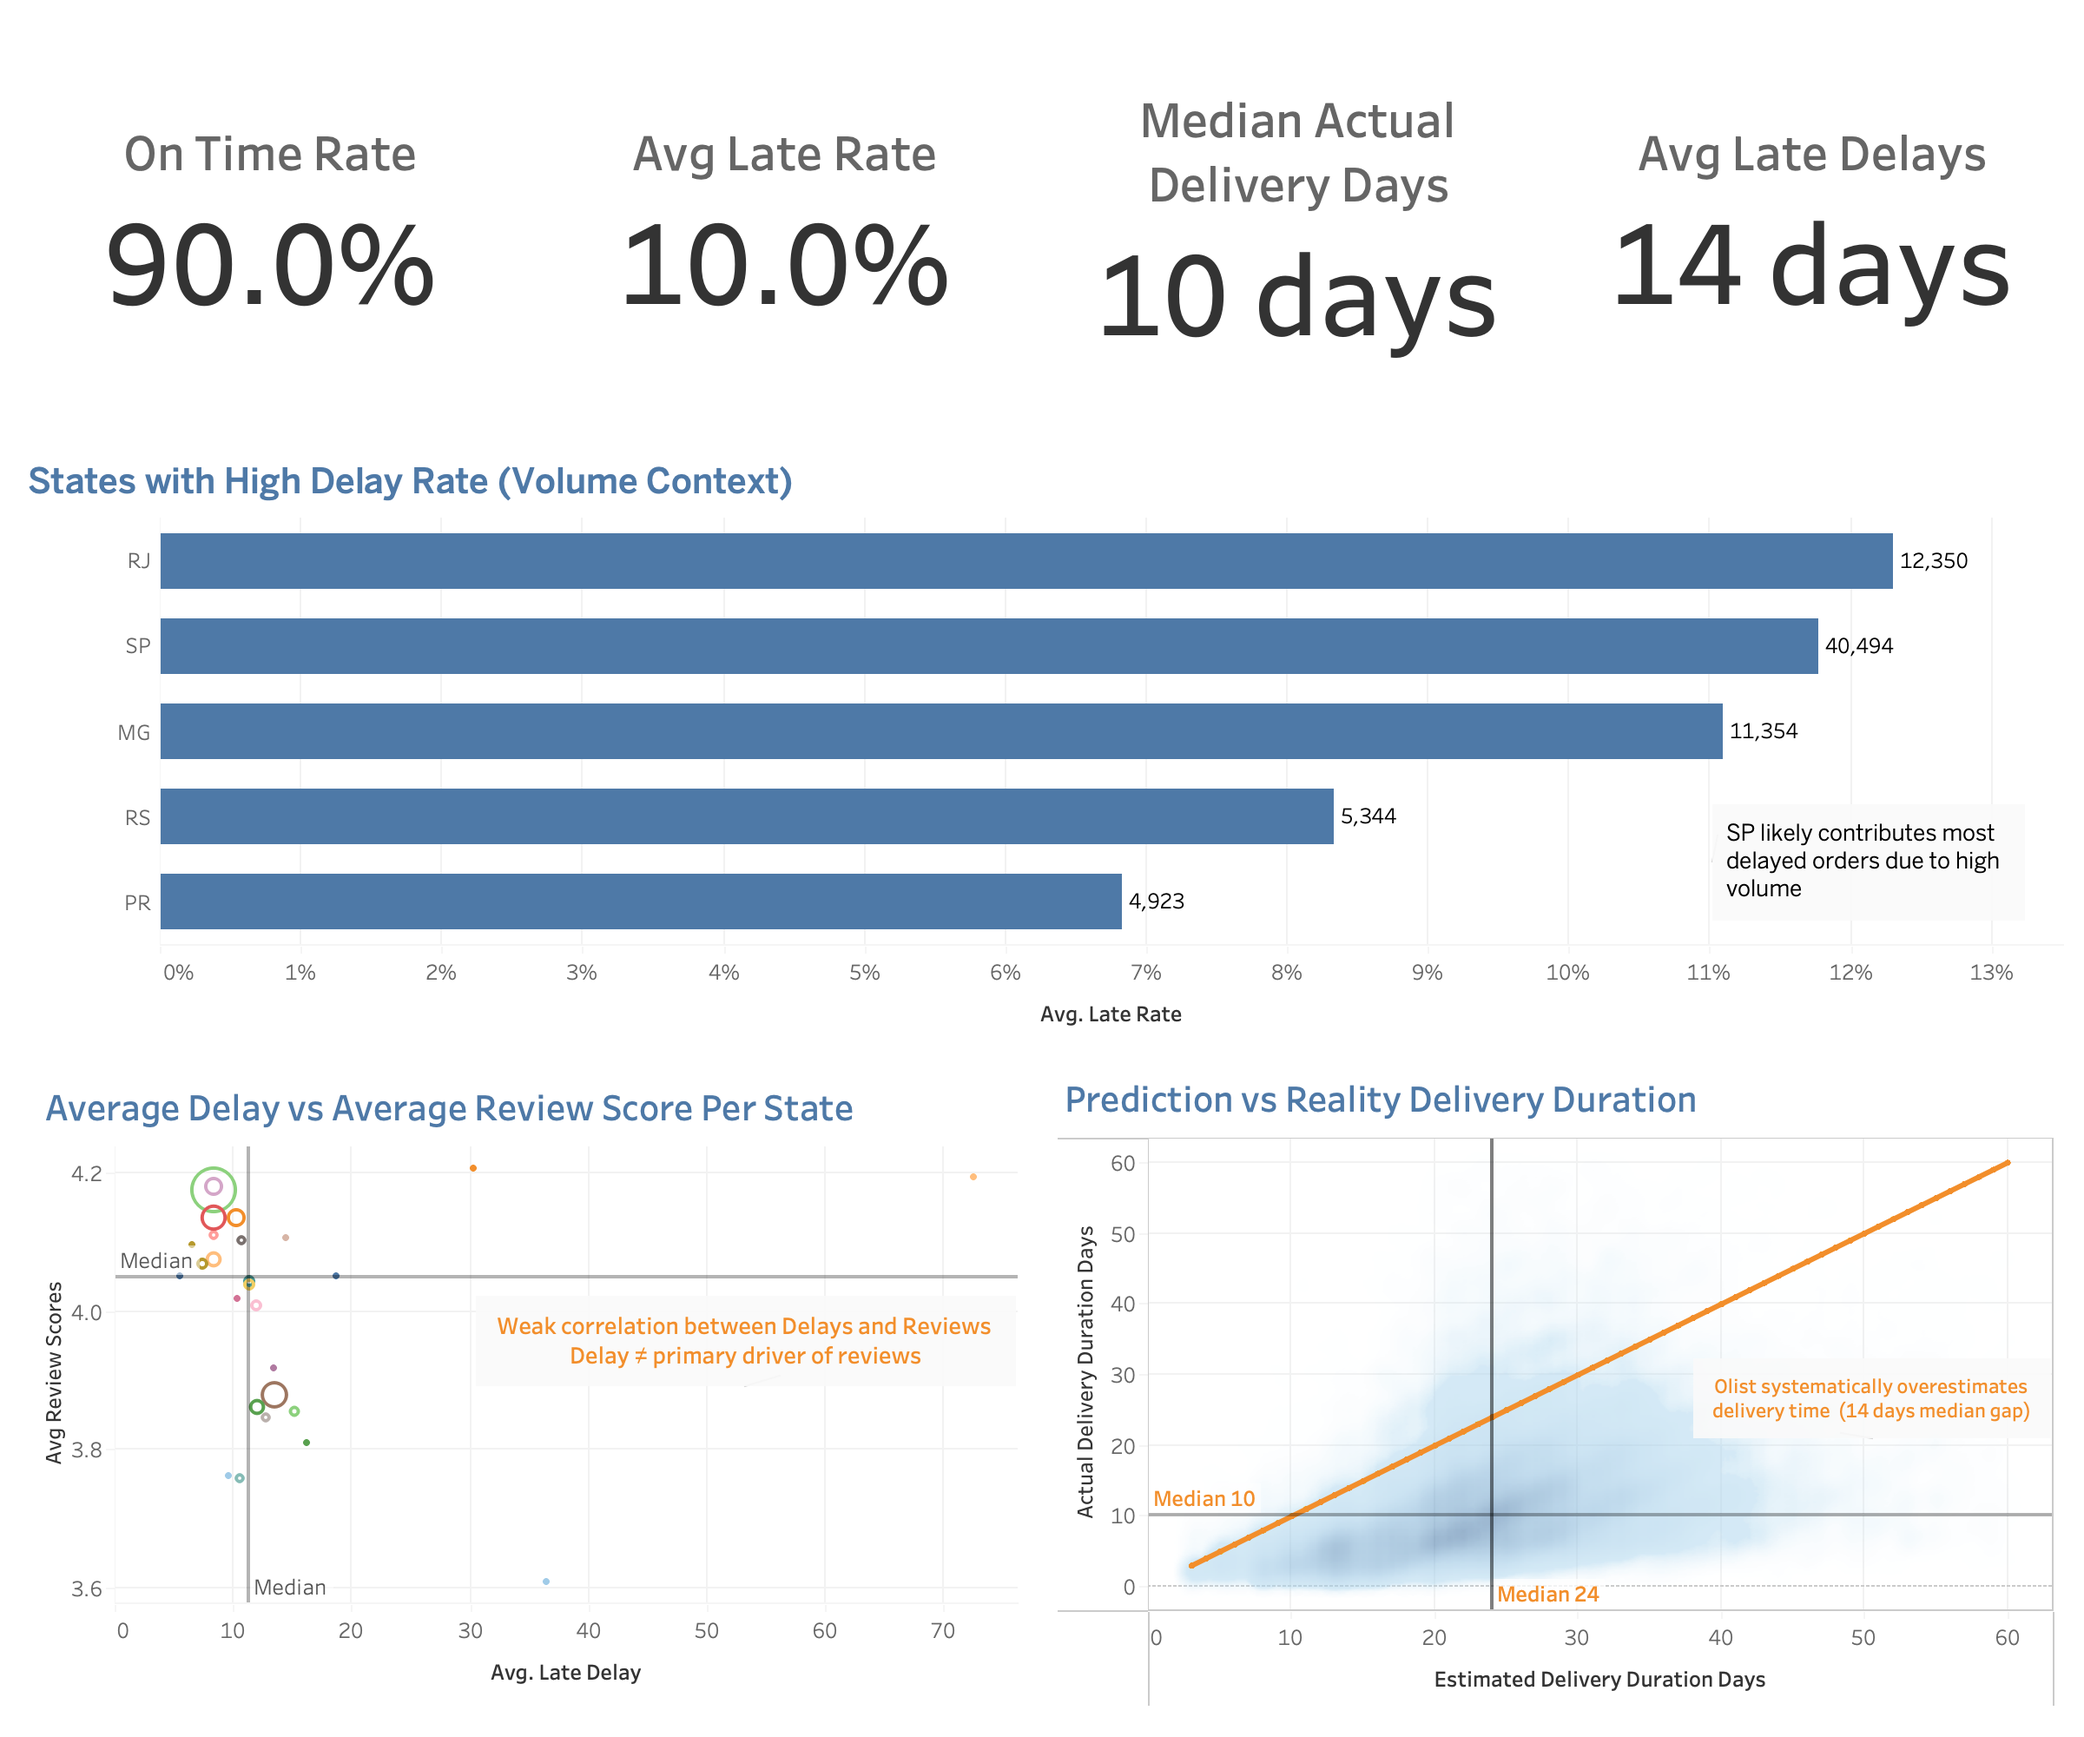
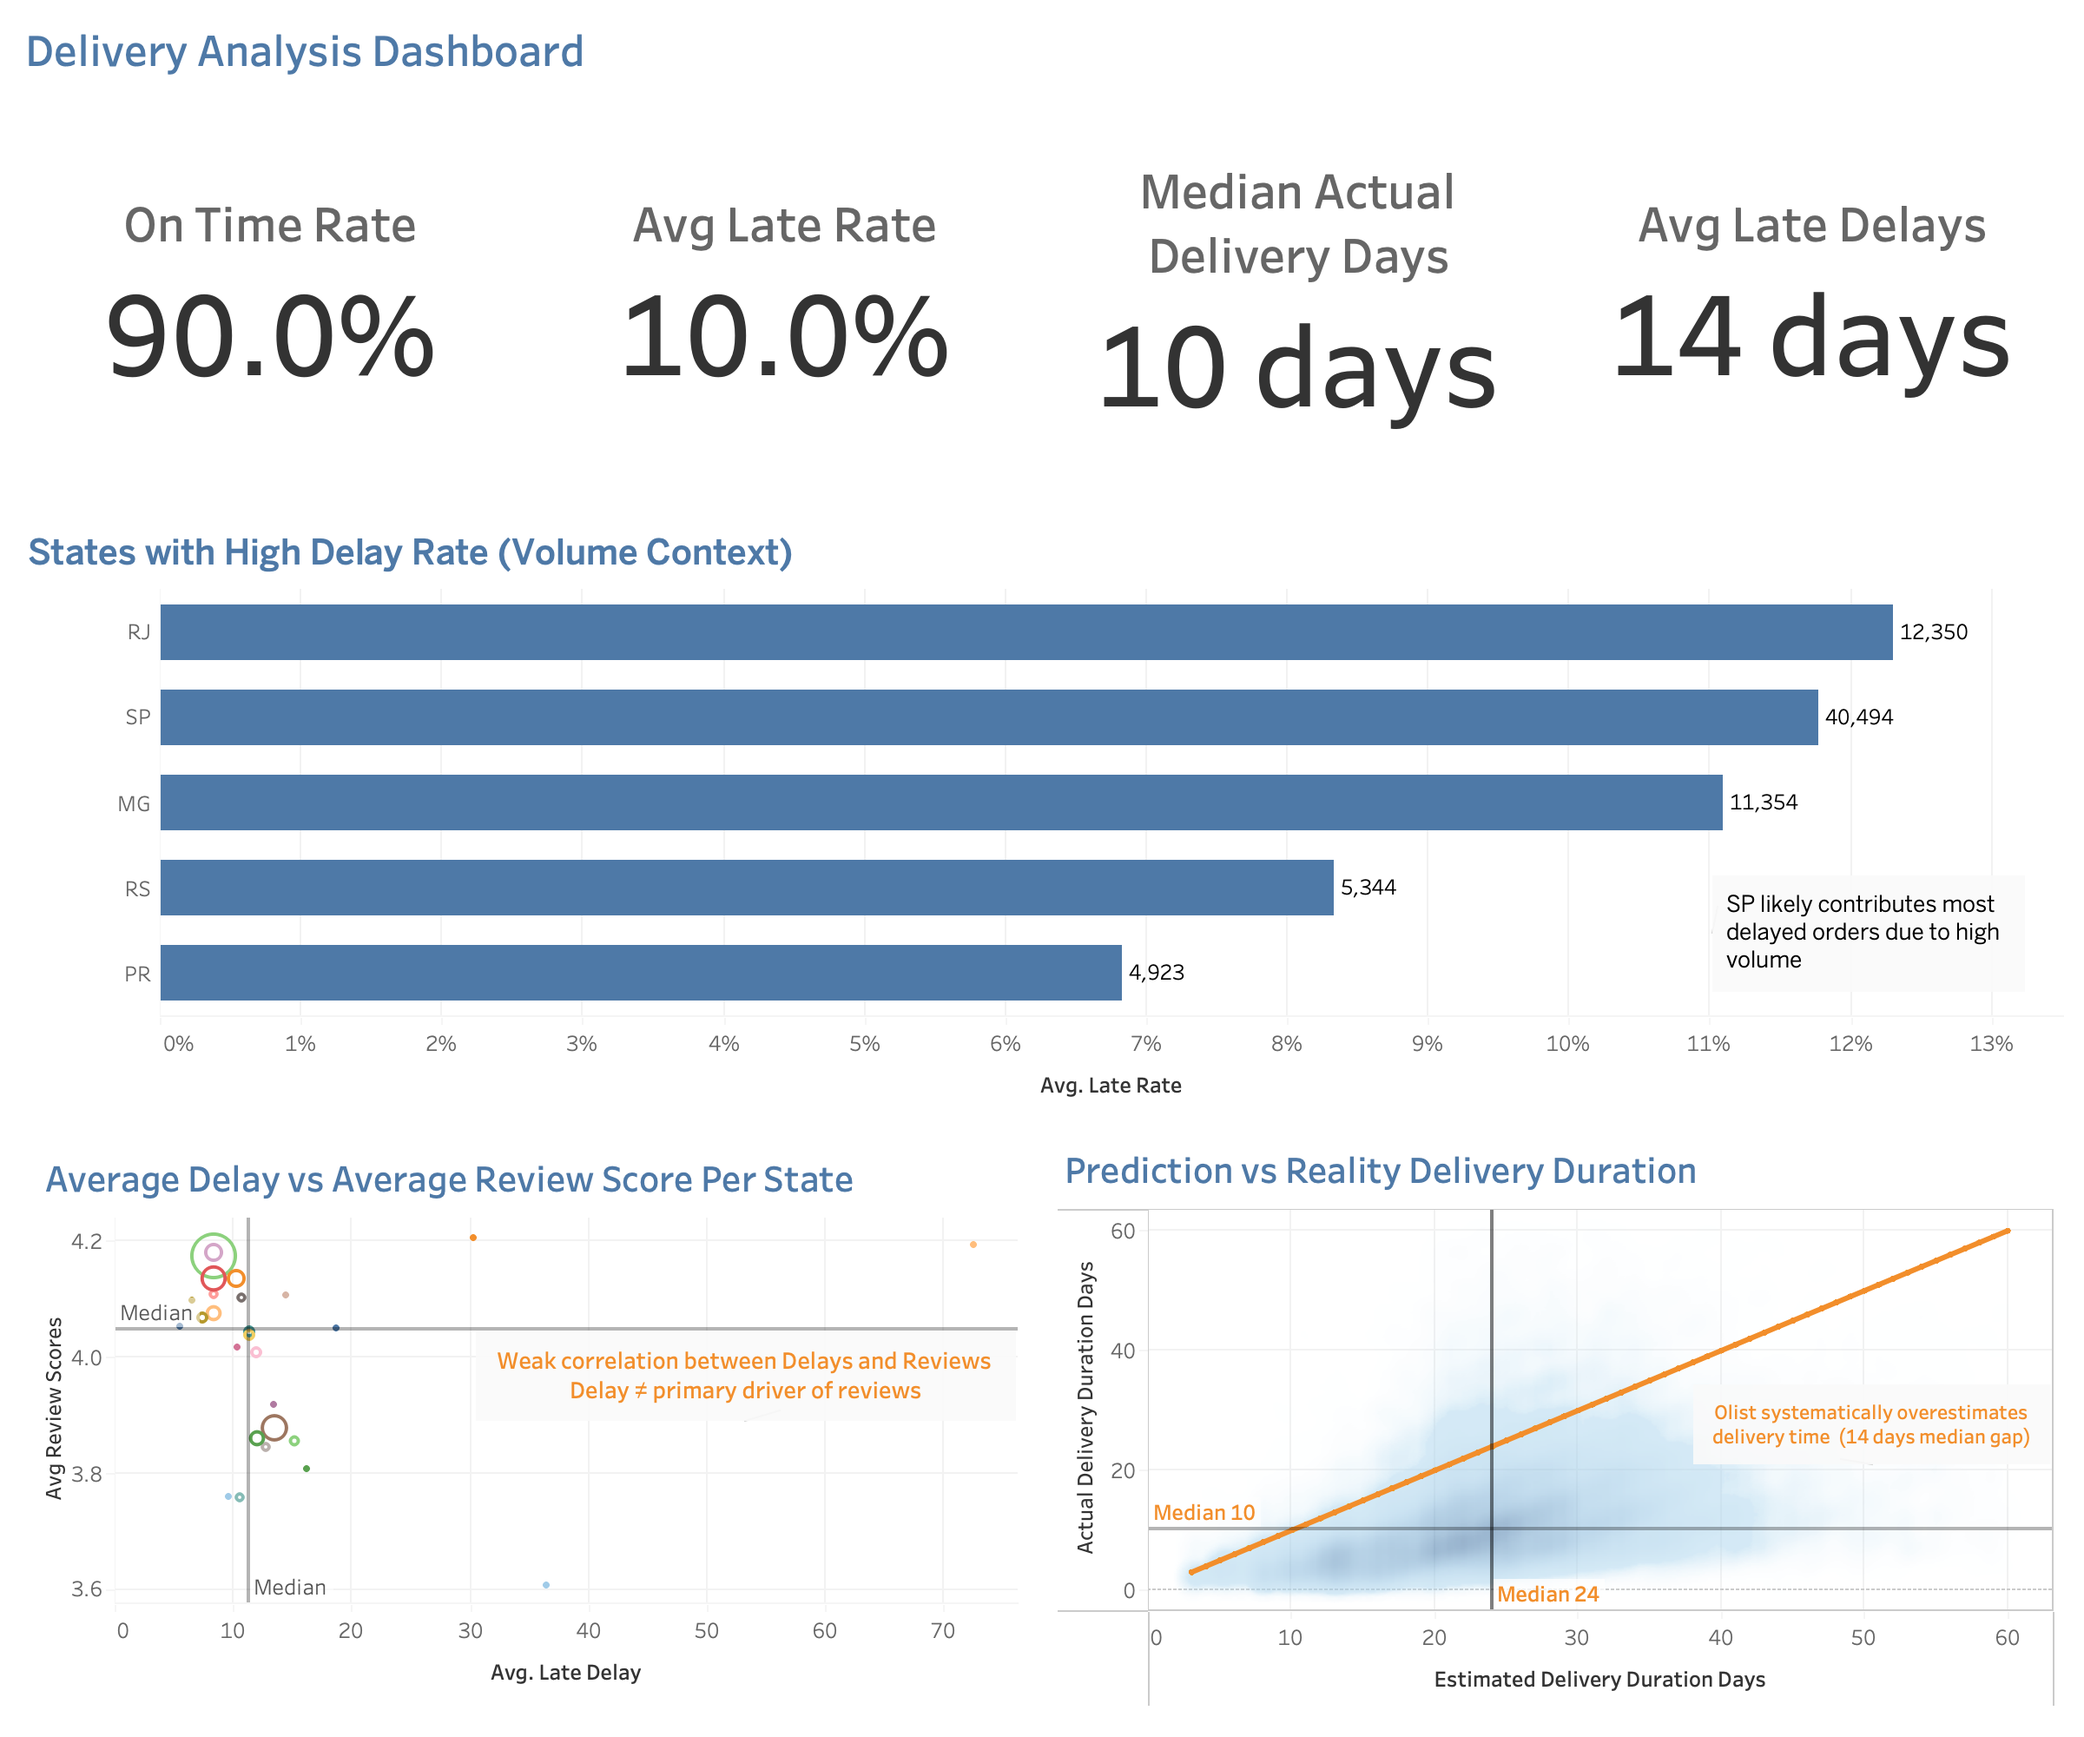
feat(dashboards): add customer-retention dashboard and update readme (#37)

diff --git a/README.md b/README.md
@@ -10,13 +10,13 @@ The goal of this project is to replicate how analytics pipelines are built in pr
 ## Architecture (High Level)
 Raw CSV Files
      
-Python Ingestion Scripts ->
+Python Ingestion Scripts 
      
-PostgreSQL (raw schema) ->
+PostgreSQL (raw schema) 
      
-dbt Transformations (staging -> marts) ->
+dbt Transformations (staging -> marts) 
      
-Analytics Tables (facts & dimensions) ->
+Analytics Tables (facts & dimensions) 
      
 Tableau Dashboards
 
@@ -83,46 +83,17 @@ Start the database:
 docker compose up -d
 ```
 
-## SQL Linting And Formatting
-
-This repo uses `sqlfluff` for dbt-aware SQL linting and formatting.
-
-What it enforces:
-- PostgreSQL dialect rules
-- dbt templating support for models in `dbt/olist_dbt`
-- Uppercase SQL keywords, functions, literals, and types
-
-Install dependencies:
-
-```bash
-pip install -r requirements.txt
-```
-
-Lint dbt SQL models:
-
-```bash
-sqlfluff lint dbt/olist_dbt/models --config .sqlfluff
-```
-
-Auto-fix fixable issues:
-
-```bash
-sqlfluff fix dbt/olist_dbt/models --config .sqlfluff
-```
-
-Enable enforcement before each commit:
-
-```bash
-pre-commit install
-pre-commit run --all-files
-```
 ## Dashboards Screenshots
-Executive Dashboard: ![Executive Dashboard](dashboards/executive-dashboard.png)
-Delivery Analysis Dashboard: ![Delivery Dashboard](dashboards/delivery-dashboard.png)
+- **Executive Dashboard:** ![Executive Dashboard](dashboards/executive-dashboard.png)
+- **Delivery Analysis Dashboard:** ![Delivery Dashboard](dashboards/delivery-dashboard.png)
+- **Customer Retention Analysis Dashboard:** ![Customer Analysis Dashboard](dashboards/customer_retention_dashboard.png)
 
-## Live Dashboard
-Executive Dashboard: [Executive Dashboard](https://public.tableau.com/app/profile/gideon.kipkorir/viz/Olist_executive_dashbaord/executive-dashboard)
-Delivery Analysis Dashboard:  [Delivery Analysis](https://public.tableau.com/app/profile/gideon.kipkorir/viz/Olist_delivery_analysis/delivery-dashboard)
+## Live Dashboards
+- **Executive Dashboard:** [Executive Dashboard](https://public.tableau.com/app/profile/gideon.kipkorir/viz/Olist_executive_dashbaord/executive-dashboard)
+
+- **Delivery Analysis Dashboard:**  [Delivery Analysis](https://public.tableau.com/app/profile/gideon.kipkorir/viz/Olist_delivery_analysis/delivery-dashboard)
+
+- **Customer Retention Analysis Dashboard:**  [Customer Retention Analysis](https://public.tableau.com/app/profile/gideon.kipkorir/viz/olist-customer-behavior-dashboard/CustomerRetentionDiagnosisDashboard)
 
 ## Key Insights
 
@@ -140,3 +111,17 @@ Delivery Analysis Dashboard:  [Delivery Analysis](https://public.tableau.com/app
 ### Customer Experience
 - Delivery delays have weak correlation with review scores.
 - Customer satisfaction remains high (4+ average rating) despite delivery variability.
+
+### Customer Retention Insights
+- Repeat rate is ~3%, indicating extremely low customer return behavior
+- Average orders per customer is 1.08, confirming most customers purchase only once 97–99% of monthly
+  activity is driven by new customers, with returning customers contributing minimally
+- Cohort analysis shows immediate drop-off after first purchase, with no cohort demonstrating  sustained retention
+- Retention trends decline over time (~3% to ~1%), showing no improvement as the business grows
+- Median time to second purchase is 59 days, indicating slow re-engagement even among repeat customers
+
+### Customer Retention Diagnosis
+- The business operates on a pure acquisition model, not retention-driven growth
+- Customer lifetime value is low, as revenue is primarily generated from first-time purchases
+- There is no evidence of habit formation or repeat purchasing behavior
+- Growth is dependent on continuously acquiring new customers, making it structurally fragile
